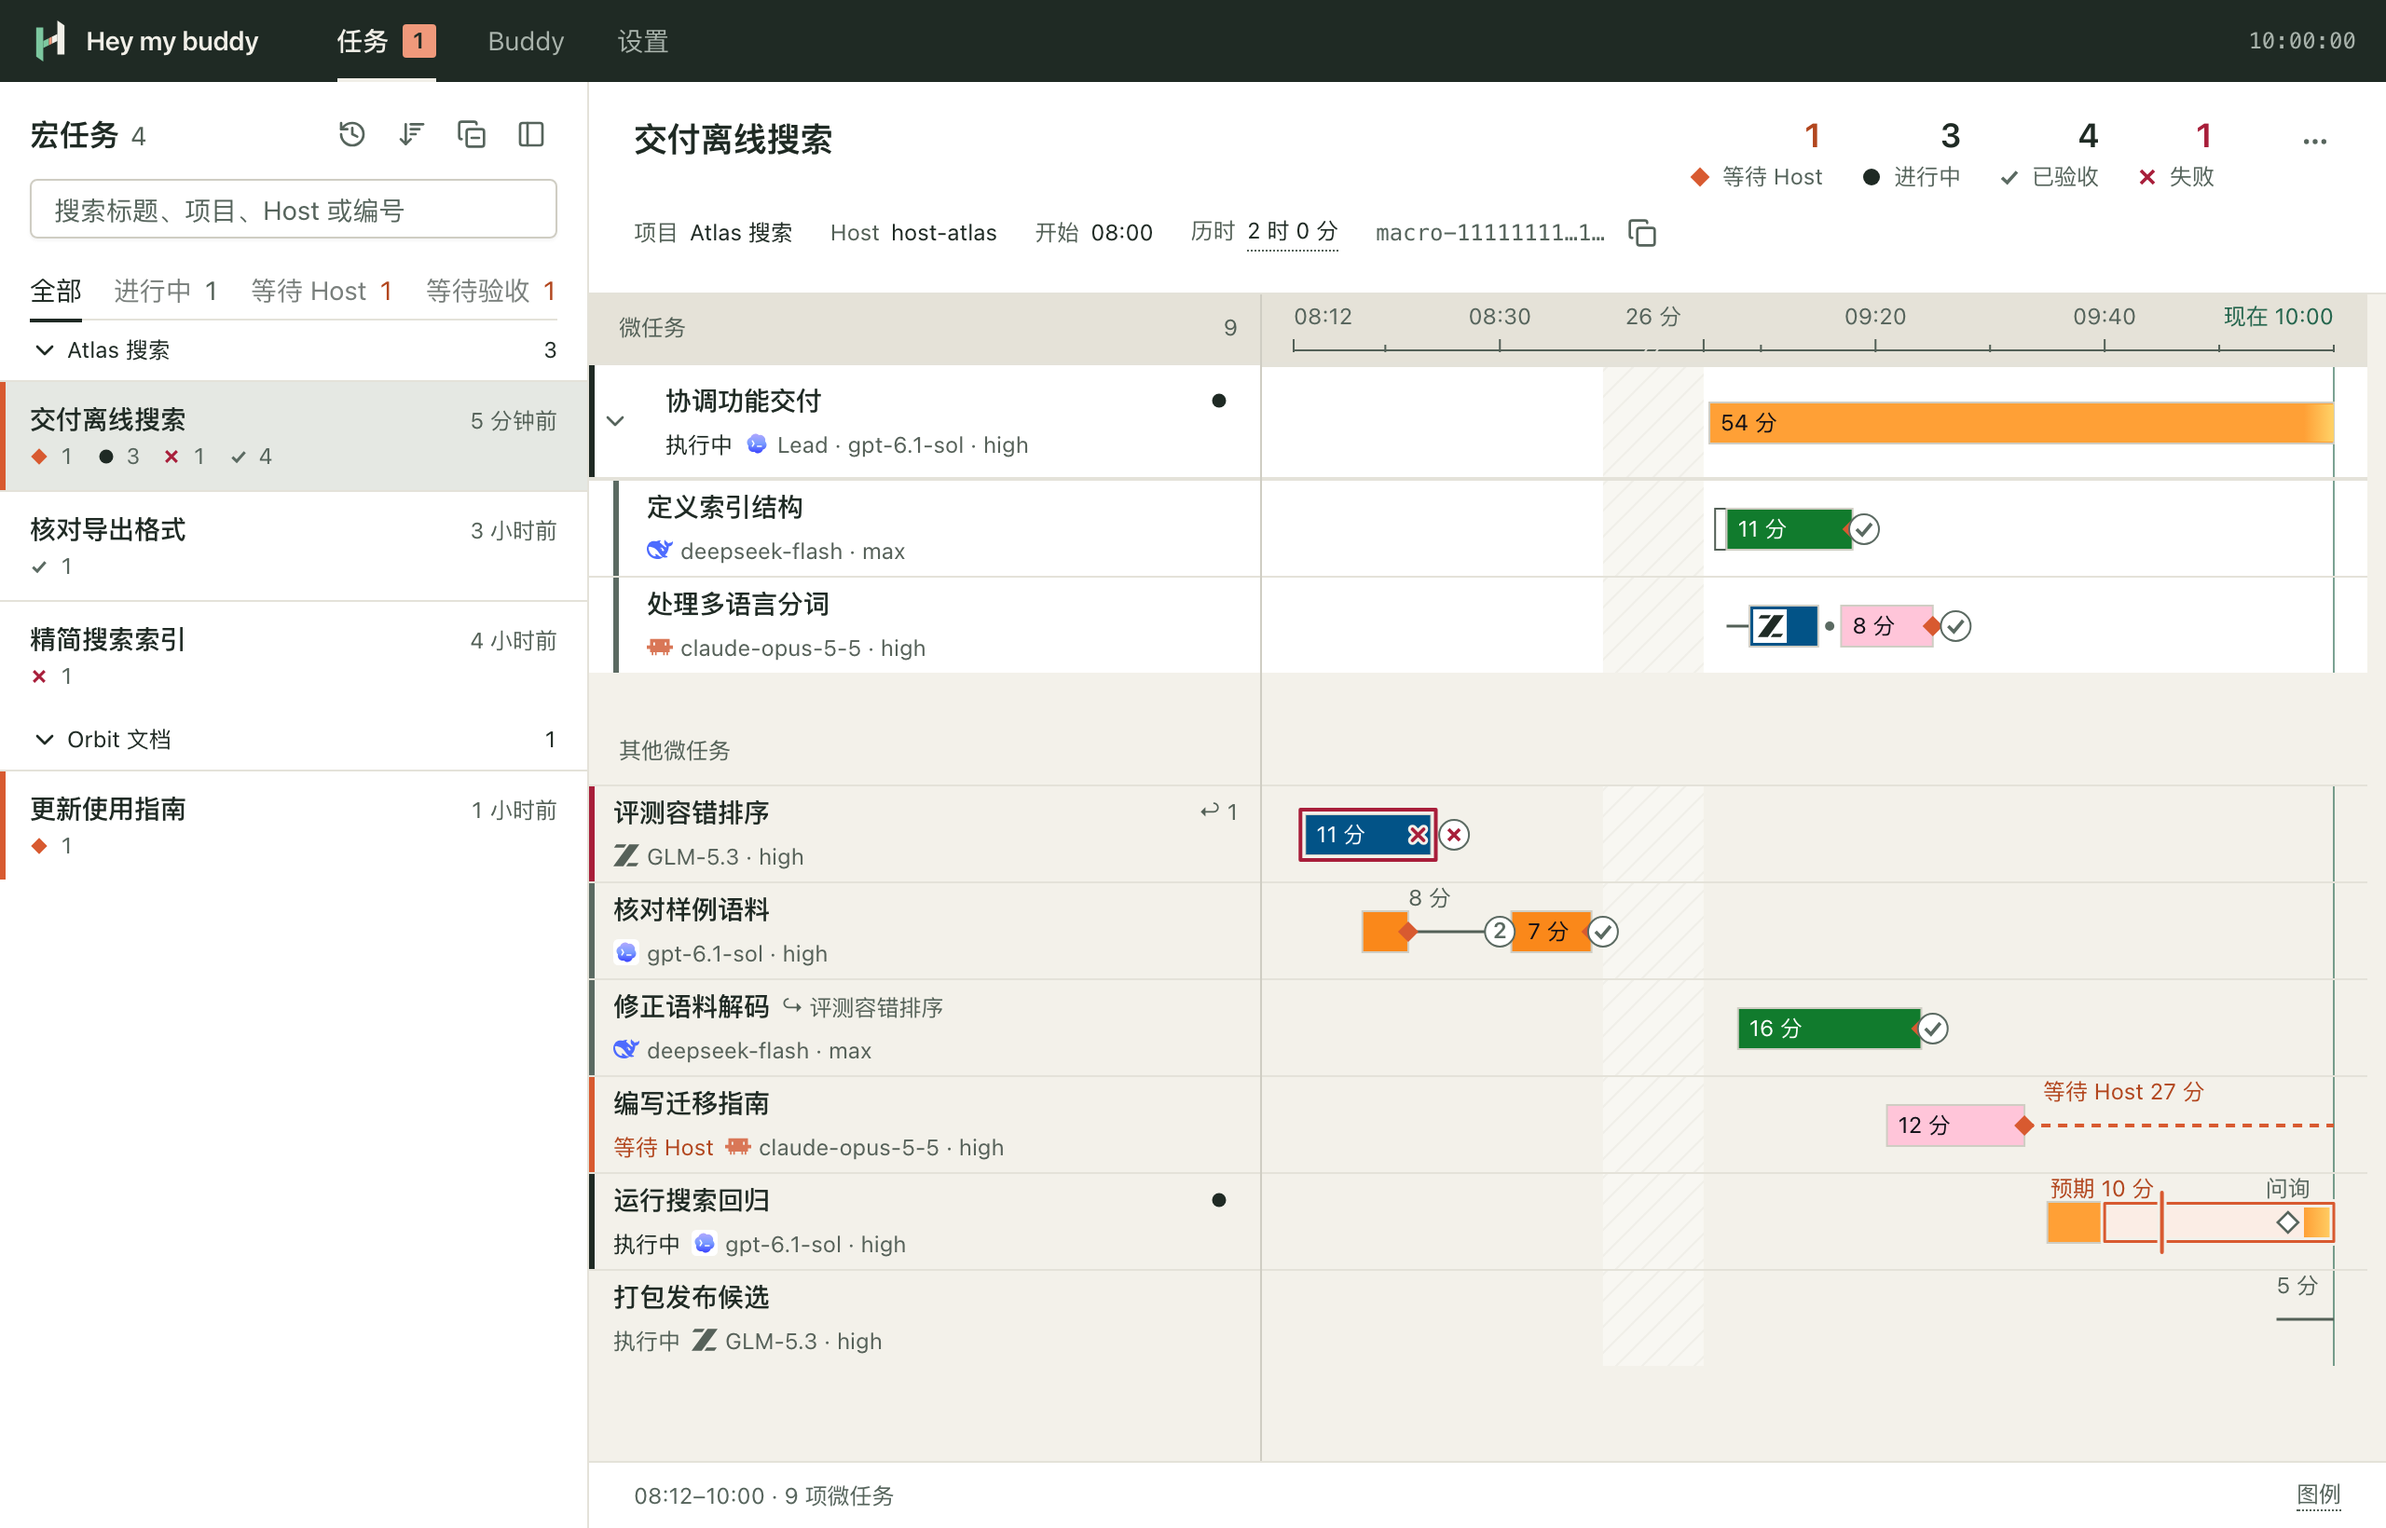
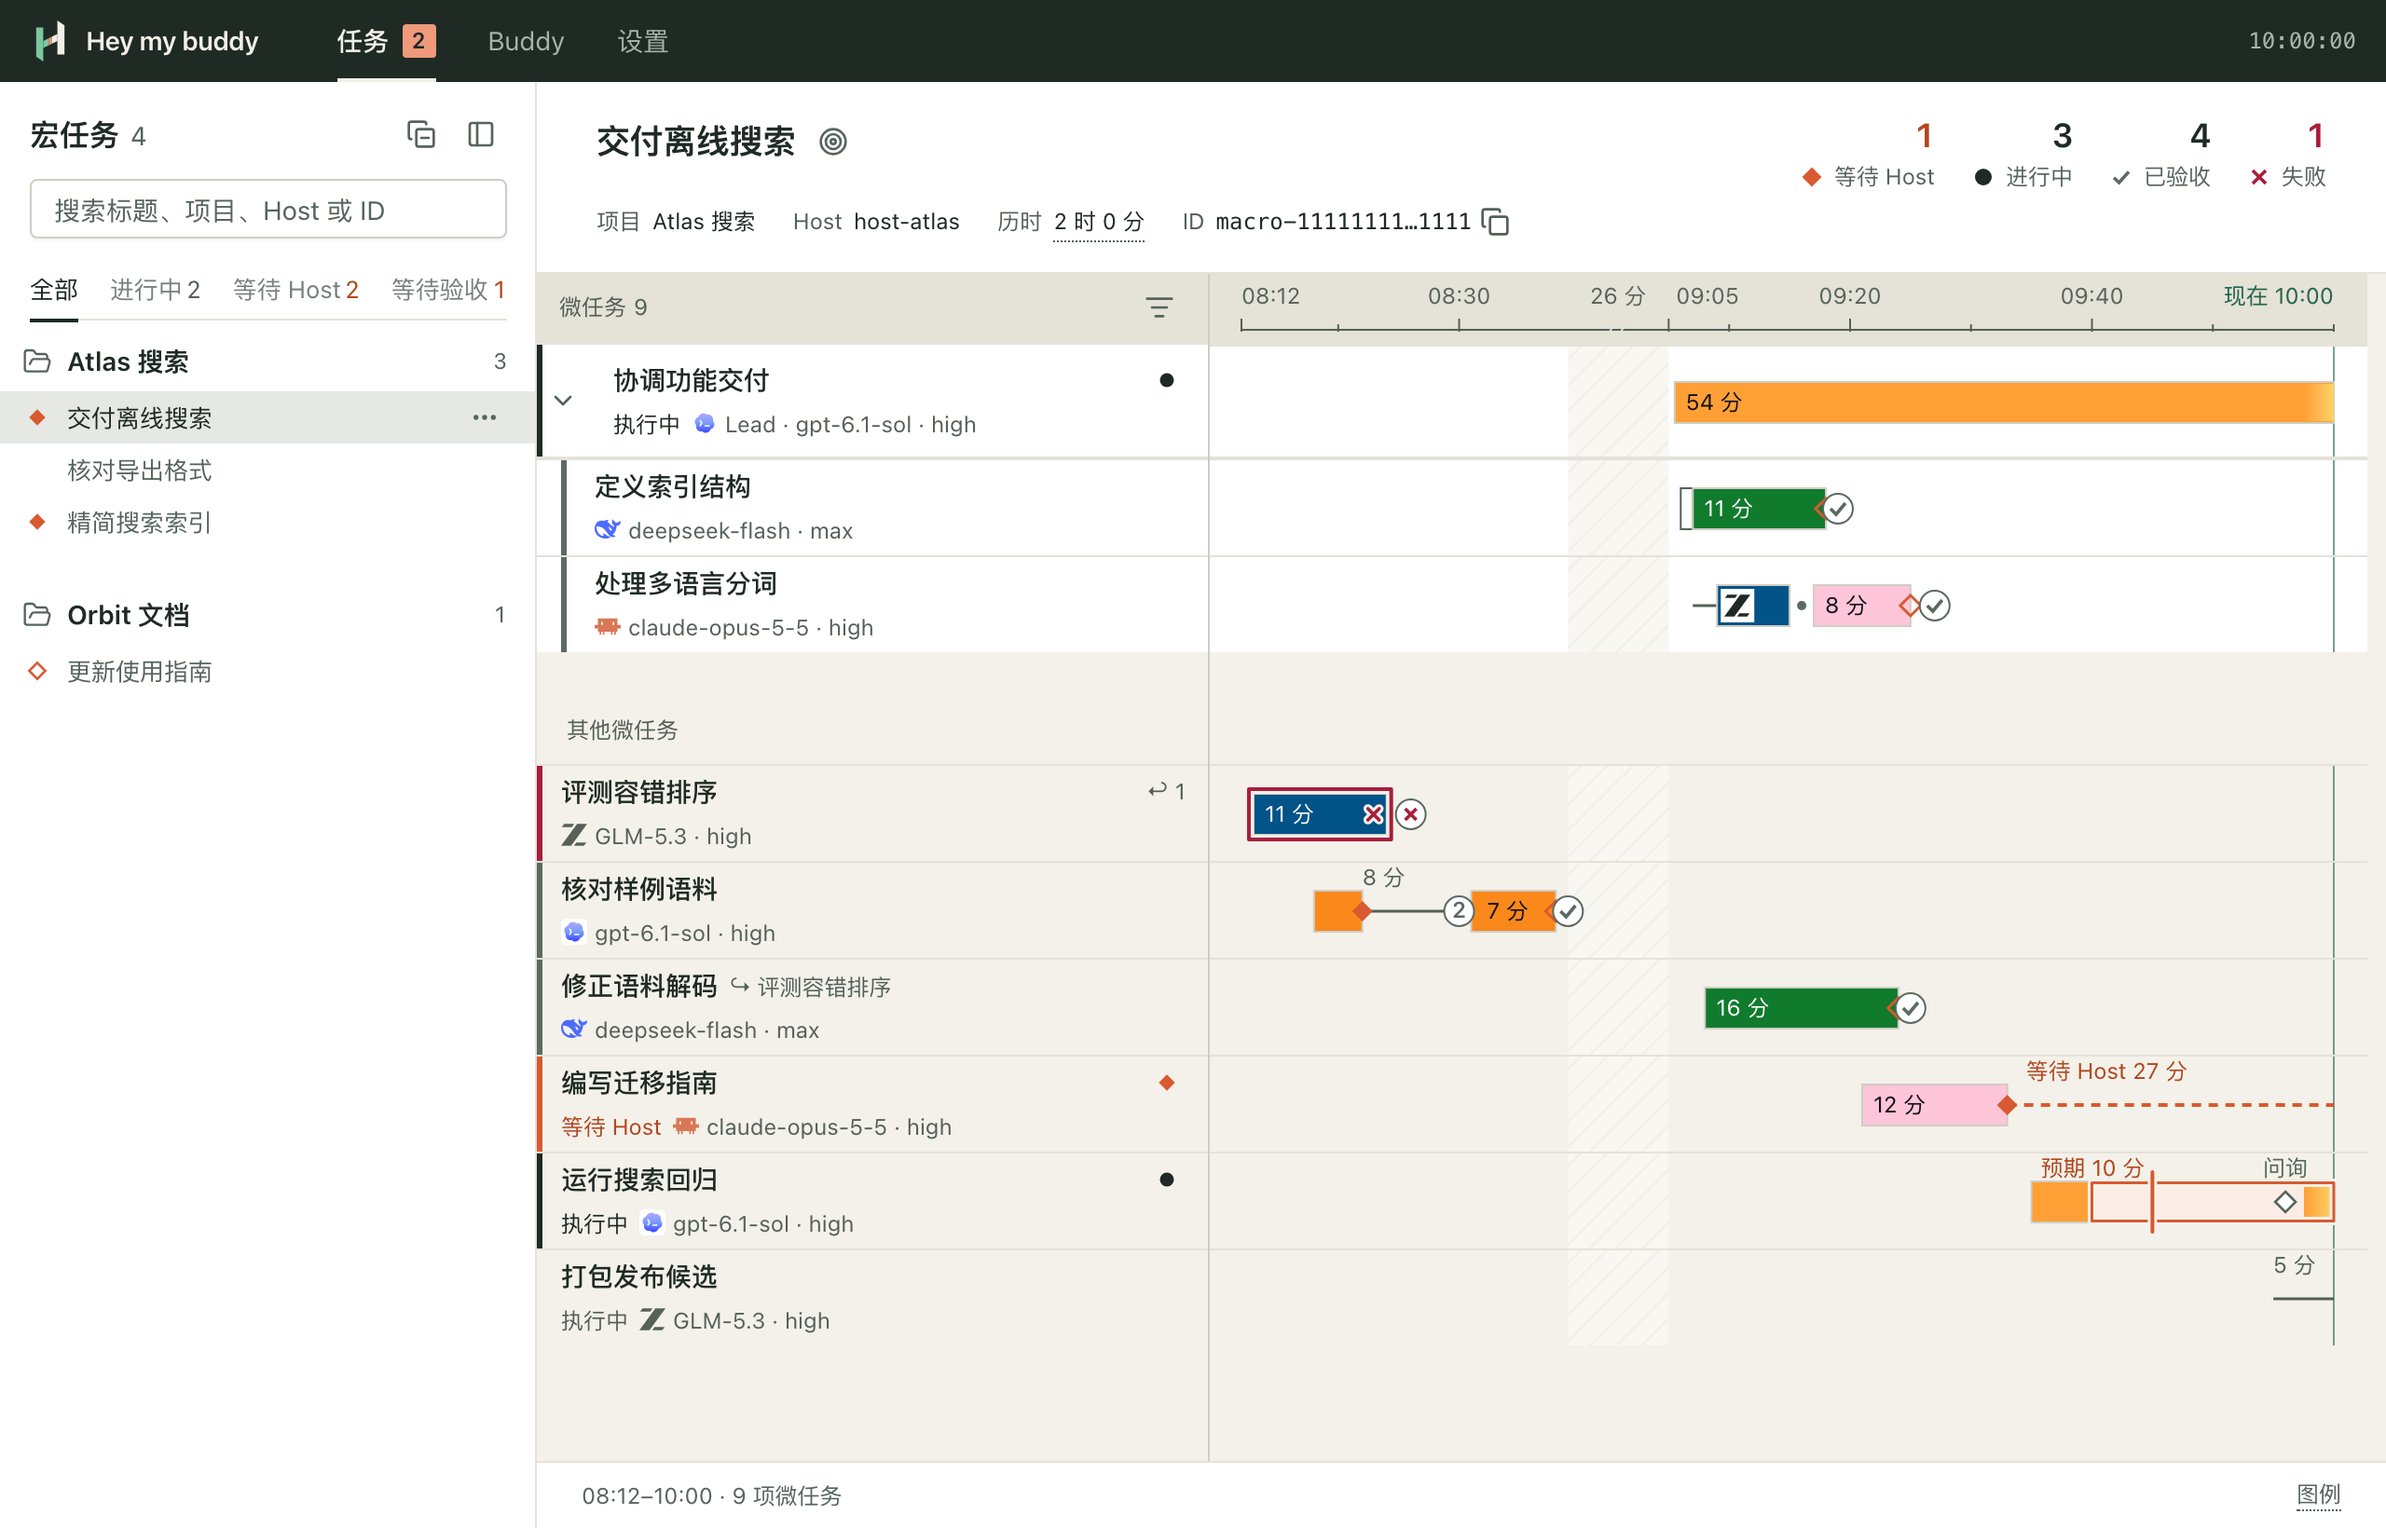
Isolate README preview data and refresh console screenshots

diff --git a/tests/python/console/test_console_readme_preview.py b/tests/python/console/test_console_readme_preview.py
@@ -36,6 +36,21 @@ class ReadmeSceneTests(unittest.TestCase):
                     self.assertEqual(0, result.returncode, result.stdout + result.stderr)
                     self.assertIn("preview smoke: 0 failure(s) with scenario=readme", result.stdout)
 
+    def test_list_contains_only_the_four_authored_macro_tasks(self):
+        for language in ("en", "zh"):
+            with self.subTest(language=language):
+                p = self.scene(language)
+                page = p.macro_task_page({})
+                self.assertEqual(4, page["totals"]["all"])
+                self.assertEqual({p.MACRO_A, p.MACRO_B, p.MACRO_C, p.MACRO_PALETTE},
+                                 {row["macroTaskId"] for group in page["groups"]
+                                  for row in group["macroTasks"]})
+                for group in page["groups"]:
+                    self.assertEqual(len(group["macroTasks"]), group["total"])
+                    self.assertIsNone(group["nextCursor"])
+                    expanded = p.macro_task_page({"group": group["id"]})["groups"]
+                    self.assertEqual([group], expanded)
+
     def test_turns_and_artifacts_have_ordered_evidence(self):
         for language in ("en", "zh"):
             with self.subTest(language=language):

diff --git a/tests/probes/macro_task_console_preview.py b/tests/probes/macro_task_console_preview.py
@@ -141,6 +141,9 @@ MACRO_INPUT = "macro-55555555-5555-4555-8555-555555555555"
 MACRO_PALETTE = "macro-44444444-4444-4444-8444-444444444444"
 STANDALONE = "preview-run-c1"
 STANDALONE_GROUP = f"run:{STANDALONE}"
+# Ordinary regression scenarios also exercise list pagination; authored scenes
+# can select a smaller list without inheriting these unrelated rows.
+LIST_PADDING_COUNT = 6
 
 PROJECTS = {
     "alpha": {"id": "synthetic-preview-alpha", "path": "/synthetic-preview/hey-my-buddy",
@@ -2273,7 +2276,7 @@ def preview_list_rows(applied: dict, state: PreviewState | None) -> list[dict]:
             if (state is None or group not in state.deleted) and group_matching(group, applied)]
     # These rows exercise a page boundary without changing the timeline fixtures.
     template = macro_task_summary(MACRO_C, set(FIXTURES["groups"][MACRO_C]))
-    for index in range(6):
+    for index in range(LIST_PADDING_COUNT):
         row = {**template, "macroTaskId": f"macro-preview-list-{index + 1}",
                "title": f"合成分页任务 {index + 1}",
                "createdAt": instant(0, index + 1), "lastActivityAt": instant(0, index + 1),

diff --git a/tests/probes/readme_console_scene.py b/tests/probes/readme_console_scene.py
@@ -16,6 +16,7 @@ def configure(p: ModuleType, language: str) -> None:
     flash = {"harness": "dsh", "provider": "deepseek-official", "model": "deepseek-flash", "effort": "max"}
     claude = {"harness": "claude", "provider": "anthropic", "model": "claude-opus-5-5", "effort": "high"}
     p.HOST_A = "host-atlas"
+    p.LIST_PADDING_COUNT = 0
     p.COOLING_UNTIL = p.instant(10, 30)
     p.PROJECTS = {
         "alpha": {"id": "synthetic-atlas", "path": "~/projects/atlas", "label": text("Atlas search", "Atlas 搜索")},
